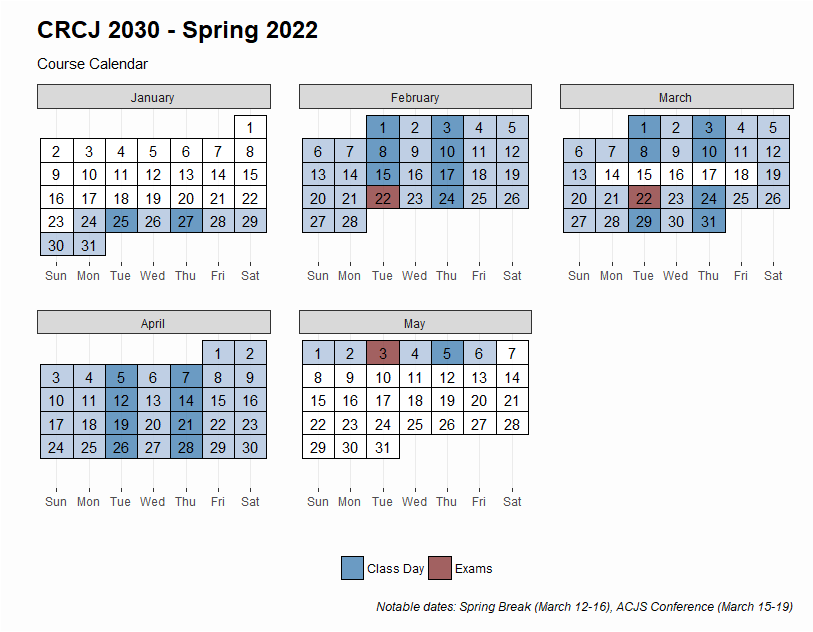
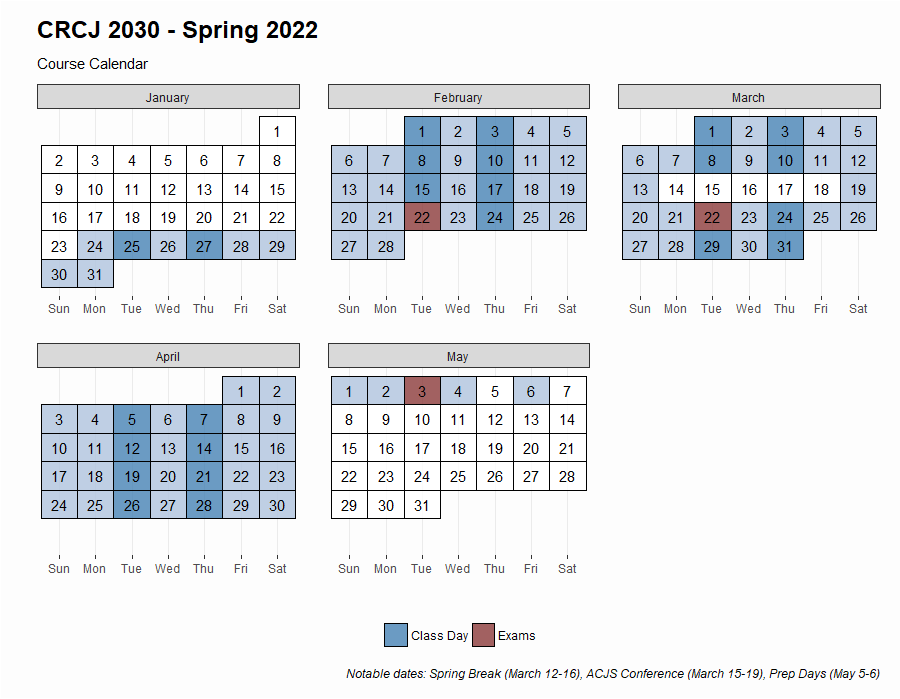
update calendar

diff --git a/content/courses/crcj2030/course_schedule.md b/content/courses/crcj2030/course_schedule.md
@@ -14,6 +14,8 @@ weight: 2
 
 ***Please note the schedule has not yet been finalized.***
 
+## Semester Overview
+
 ![calendar](/courses/crcj2030_calendar_spring22.png)
 
 ## Week 1: Introduction
@@ -58,11 +60,11 @@ weight: 2
 
 * 3/10: W&S Chapter 6
 
-## Week 8: Spring Break
+## Week 8: Spring Break & ACJS Conference
 
-* 3/15: No class
+* 3/15: Spring Break - No class
 
-* 3/17: No class
+* 3/17: ACJS Conference - No class
 
 ## Week 9: Community Policing
 
